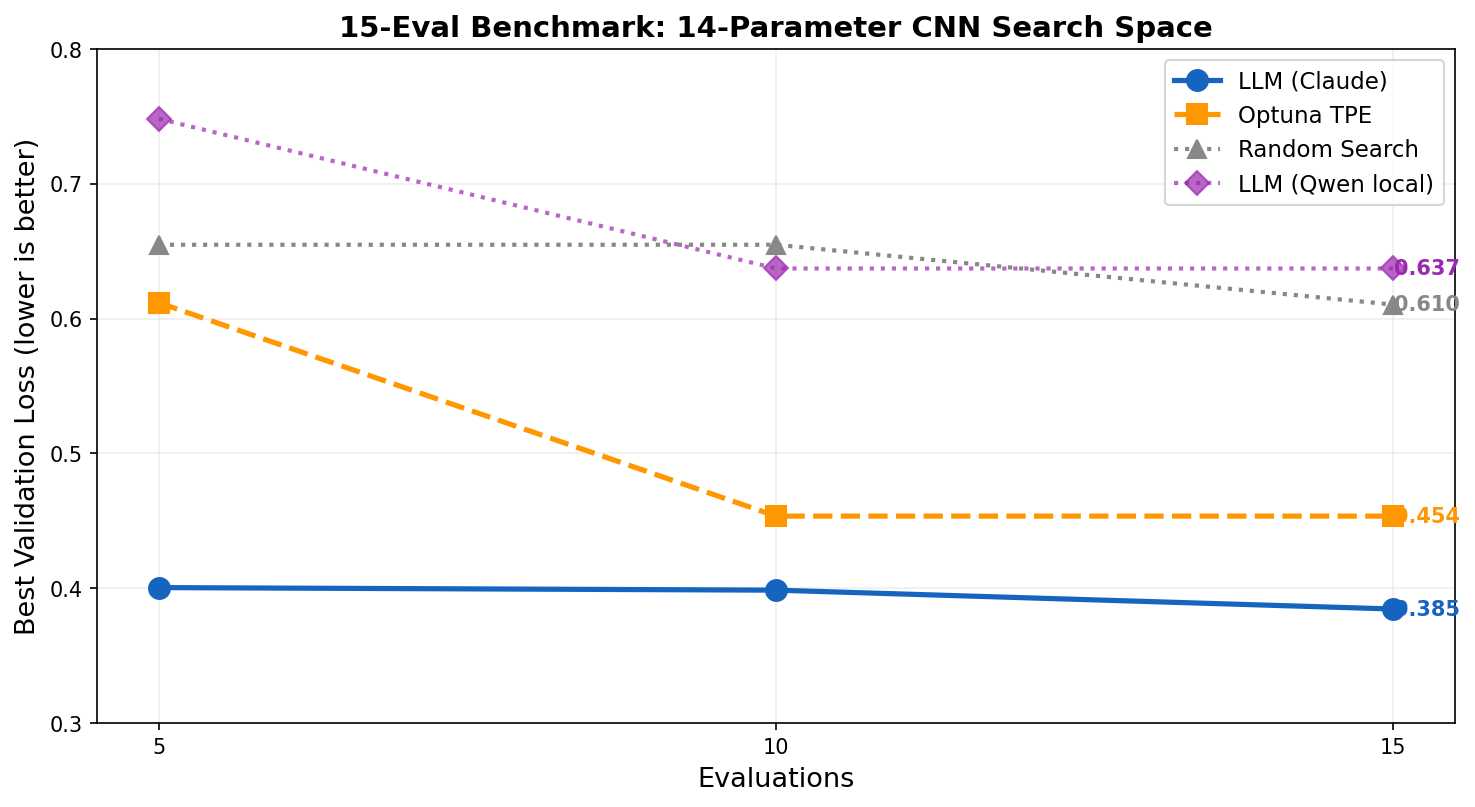
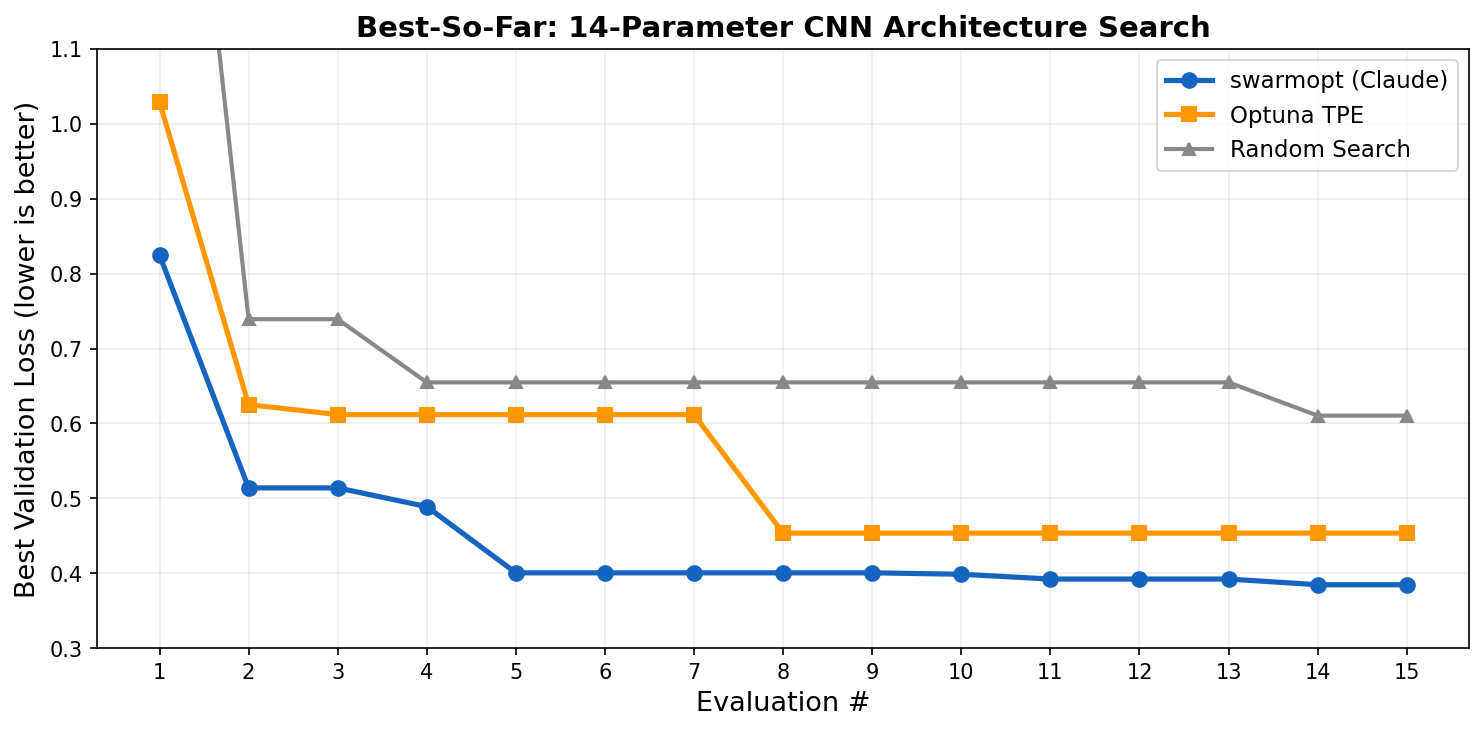
focus README on benchmark, fix optuna n_startup_trials for fair comparison

diff --git a/examples/benchmark.py b/examples/benchmark.py
@@ -227,7 +227,8 @@ def run_optuna(n_evals, train_loader, val_loader):
         print(f"  Optuna [{len(scores)}/{n_evals}] loss={result[0]:.4f} acc={result[1]:.4f} ({result[2]:.1f}s)")
         return result[0]
 
-    study = optuna.create_study(direction="minimize", sampler=optuna.samplers.TPESampler(seed=42))
+    study = optuna.create_study(direction="minimize",
+                                sampler=optuna.samplers.TPESampler(seed=42, n_startup_trials=3))
     t0 = time.time()
     study.optimize(objective, n_trials=n_evals)
     wall_time = time.time() - t0

diff --git a/README.md b/README.md
@@ -12,21 +12,13 @@
 
 Point it at a training script, let it run overnight. The LLM sees full per-epoch train/val curves, spots overfitting, and proposes what to try next — like a research assistant who never sleeps and actually reads the loss plots.
 
-We let it run for 8 hours on a MacBook. Starting from random configs, it independently converged on GELU + residual connections + BatchNorm + AdamW + zero dropout — the same recipe a senior ML engineer would pick. It noticed dropout was hurting performance from the training curves and stopped using it. 1,239 experiments, zero human intervention.
+### vs Optuna and random search
 
 <p align="center">
-  <img src="assets/convergence.png" alt="LLM convergence: loss 0.72 → 0.26 over 858 experiments" width="750">
+  <img src="assets/benchmark.png" alt="Benchmark: swarmopt vs Optuna vs Random" width="700">
 </p>
 
-### vs Optuna and random search (same 15-eval budget)
-
-<p align="center">
-  <img src="assets/benchmark.png" alt="Benchmark: LLM vs Optuna vs Random" width="650">
-</p>
-
-14-parameter CNN search space on FashionMNIST. Optuna TPE wasted 7 of 15 evals on configs that scored worse than random chance. The LLM already knew to use residual connections, reasonable learning rates, and modern activations — it didn't need to learn that from scratch.
-
-> Local Qwen backend is experimental — works but has a ~40% JSON parse failure rate on complex search spaces. Claude API recommended.
+Same 15-eval budget, 14-parameter CNN search space. swarmopt starts ahead because the LLM already knows things like "residual connections help deep networks" and "high learning rates cause instability" — Optuna has to discover all of that from data. Note: Optuna's TPE was configured with `n_startup_trials=3` for a fair comparison (default is 10, which would make it purely random for most of the budget).
 
 ## Quick start
 
@@ -85,8 +77,8 @@ See the [full documentation](https://loevlie.github.io/swarmopt/) for:
 - [How it works](https://loevlie.github.io/swarmopt/how-it-works/) — what the LLM sees, training curve analysis
 - [CLI reference](https://loevlie.github.io/swarmopt/cli/) — `swarmopt run`, `inspect`, `results`
 - [Python API](https://loevlie.github.io/swarmopt/api/) — `ArchSearch`, `from_model`, search space types
-- [Examples](https://loevlie.github.io/swarmopt/examples/) — CNN search, ResNet tuning, overnight results
-- [Benchmarks](https://loevlie.github.io/swarmopt/benchmarks/) — vs Optuna, random search, grid search
+- [Examples](https://loevlie.github.io/swarmopt/examples/) — CNN search, ResNet tuning
+- [Benchmarks](https://loevlie.github.io/swarmopt/benchmarks/) — vs Optuna, random search
 
 ## Installation
 
